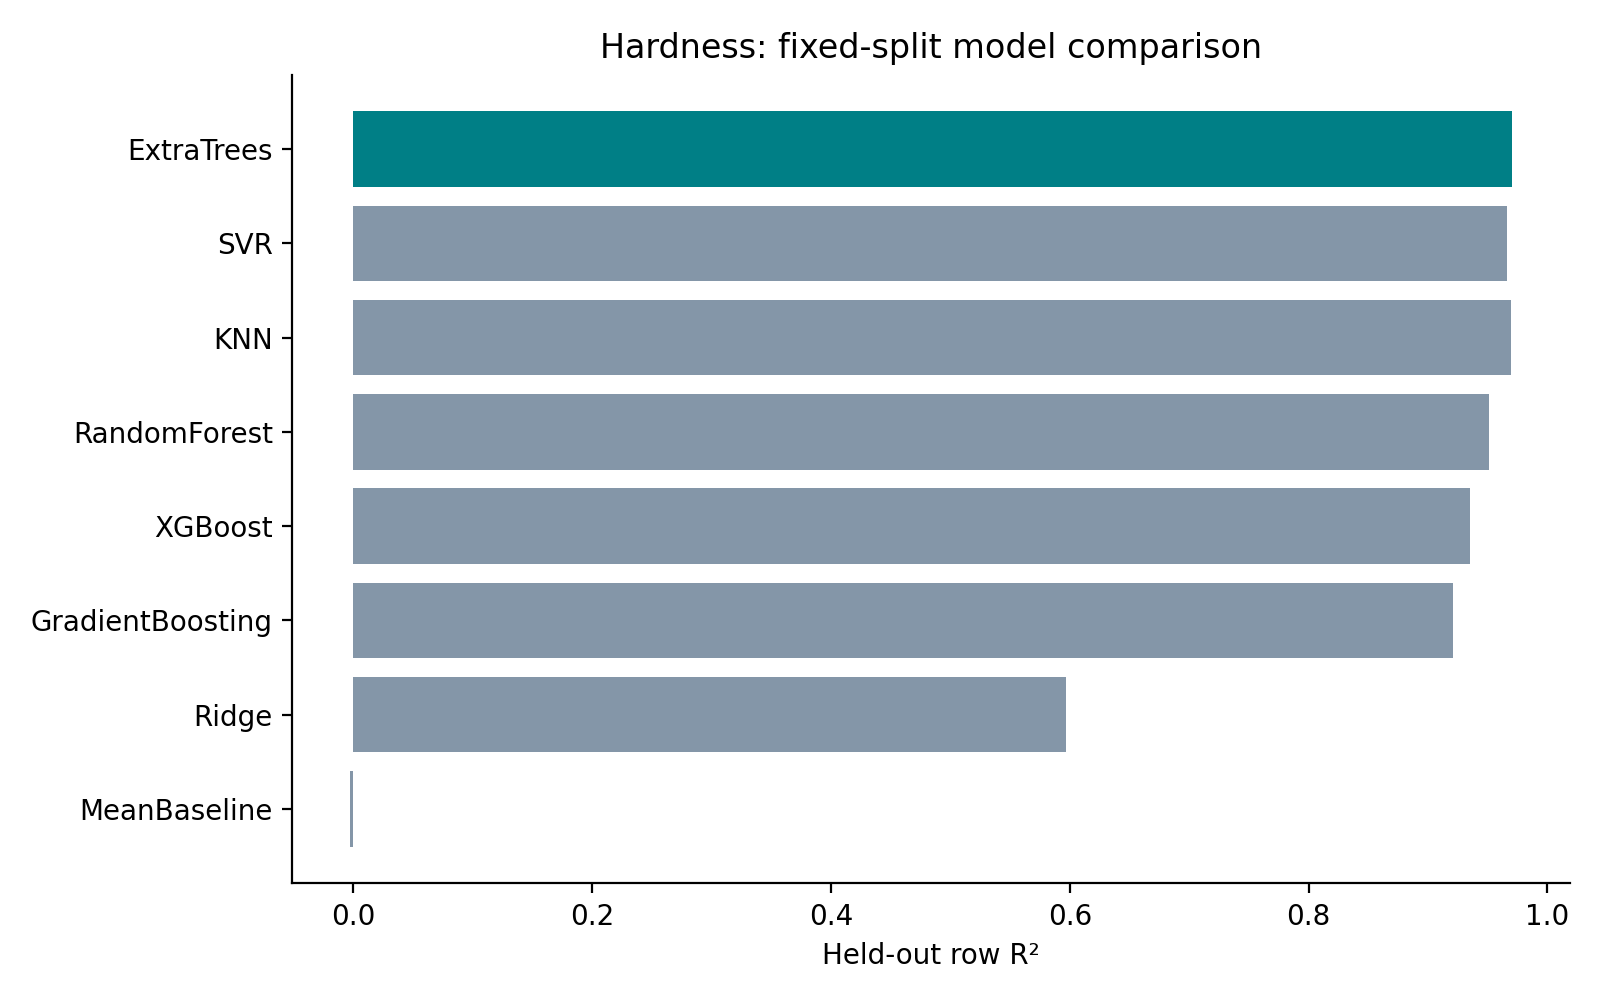
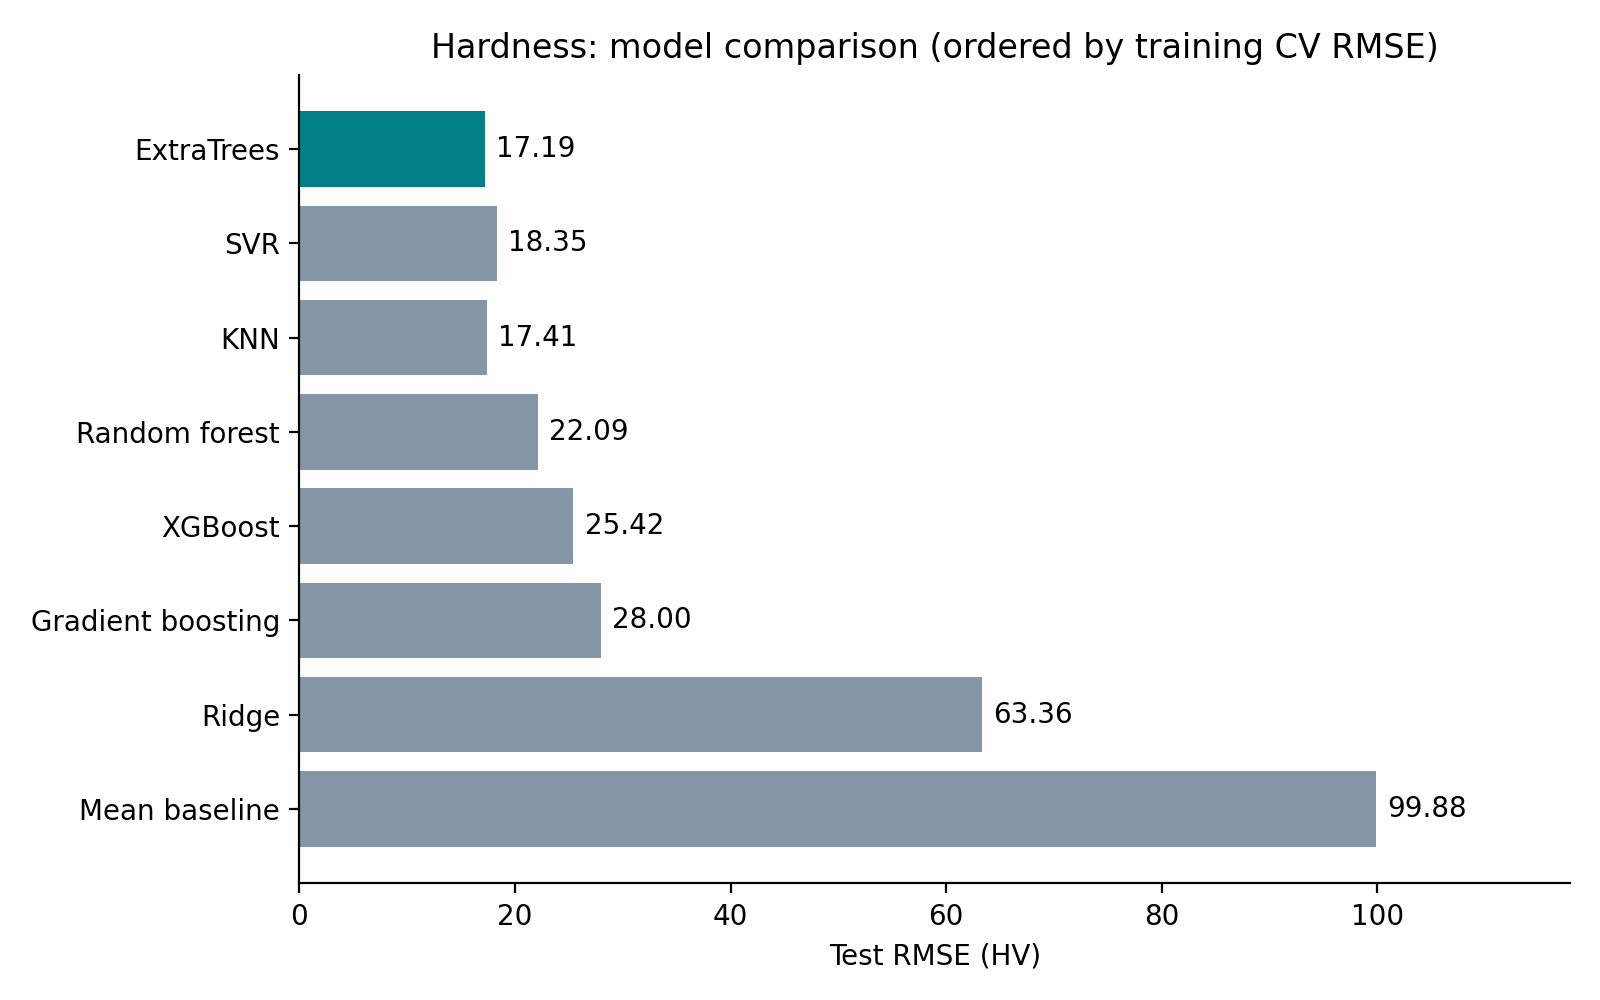
Clarify model comparison figures and measured-resistivity labels

diff --git a/code/main_ml/complete_xgb_shap.py b/code/main_ml/complete_xgb_shap.py
@@ -85,8 +85,11 @@ def run():
         plt.close(fig)
         comparison=pd.DataFrame(rows).sort_values('CV_RMSE')
         fig,ax=plt.subplots(figsize=(8,5))
-        ax.barh(comparison.model,comparison.test_R2,color=['#007f86' if a else '#8496a8' for a in comparison.selected])
-        ax.set(xlabel='Held-out row R²',title=f'{name.title()}: fixed-split model comparison')
+        labels=comparison.model.replace({'RandomForest':'Random forest','GradientBoosting':'Gradient boosting','MeanBaseline':'Mean baseline'})
+        bars=ax.barh(labels,comparison.test_RMSE,color=['#007f86' if a else '#8496a8' for a in comparison.selected])
+        ax.bar_label(bars,labels=[f'{v:.4f}' if name=='resistivity' else f'{v:.2f}' for v in comparison.test_RMSE],padding=4)
+        ax.set(xlabel=f'Test RMSE ({unit})',title=f'{name.title()}: model comparison (ordered by training CV RMSE)')
+        ax.margins(x=.18)
         ax.invert_yaxis();fig.tight_layout();fig.savefig(out/'model_comparison.png');plt.close(fig)
         print('COMPARISON',name,json.dumps(rows),flush=True)
         # Explain the selected fitted model, using only training rows as background.

diff --git a/code/paired_ml/run.py b/code/paired_ml/run.py
@@ -88,7 +88,7 @@ for v in ['without_rho','with_rho']:
 fig,axes=plt.subplots(1,2,figsize=(11,5))
 for ax,v in zip(axes,['without_rho','with_rho']):
  label=chosen[v];m,cols=models[(v,label)];p=m.predict(X.iloc[te][cols]);mt=metric(y.iloc[te],p)
- ax.scatter(y.iloc[te],p,c='#007f86',s=25);limits=[min(y.iloc[te].min(),p.min()),max(y.iloc[te].max(),p.max())];ax.plot(limits,limits,'k--',lw=1);ax.set(xlabel='Measured hardness (HV)',ylabel='Predicted hardness (HV)',title=f'{label}: {v.replace("_"," ")}\nR²={mt["R2"]:.4f}; RMSE={mt["RMSE"]:.2f} HV')
+ ax.scatter(y.iloc[te],p,c='#007f86',s=25);limits=[min(y.iloc[te].min(),p.min()),max(y.iloc[te].max(),p.max())];ax.plot(limits,limits,'k--',lw=1);ax.set(xlabel='Measured hardness (HV)',ylabel='Predicted hardness (HV)',title=f'{label}: '+('with measured resistivity' if v=='with_rho' else 'without measured resistivity')+f'\nTest R²={mt["R2"]:.4f}; RMSE={mt["RMSE"]:.2f} HV')
 fig.tight_layout()
 for ext in ['png','svg']:fig.savefig(ROOT/f'paired_prediction.{ext}',dpi=200)
 plt.close(fig)
